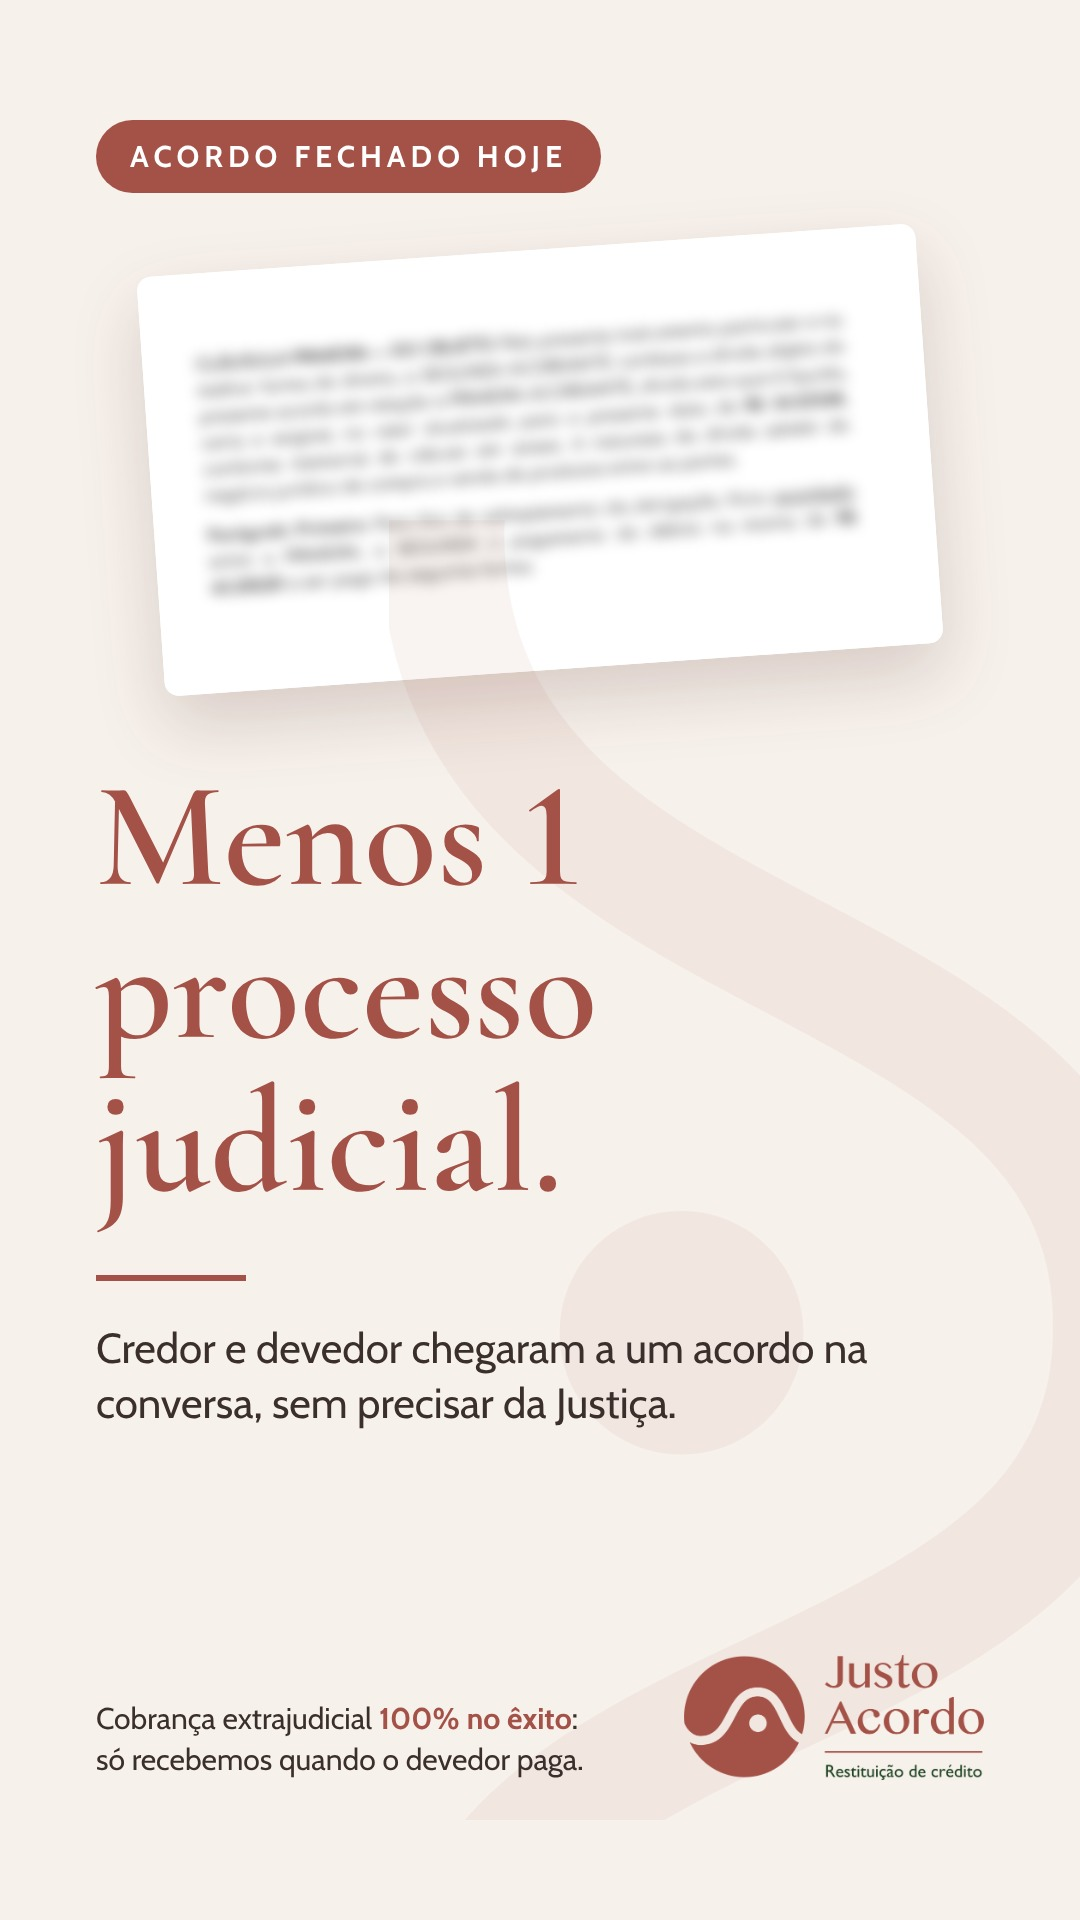
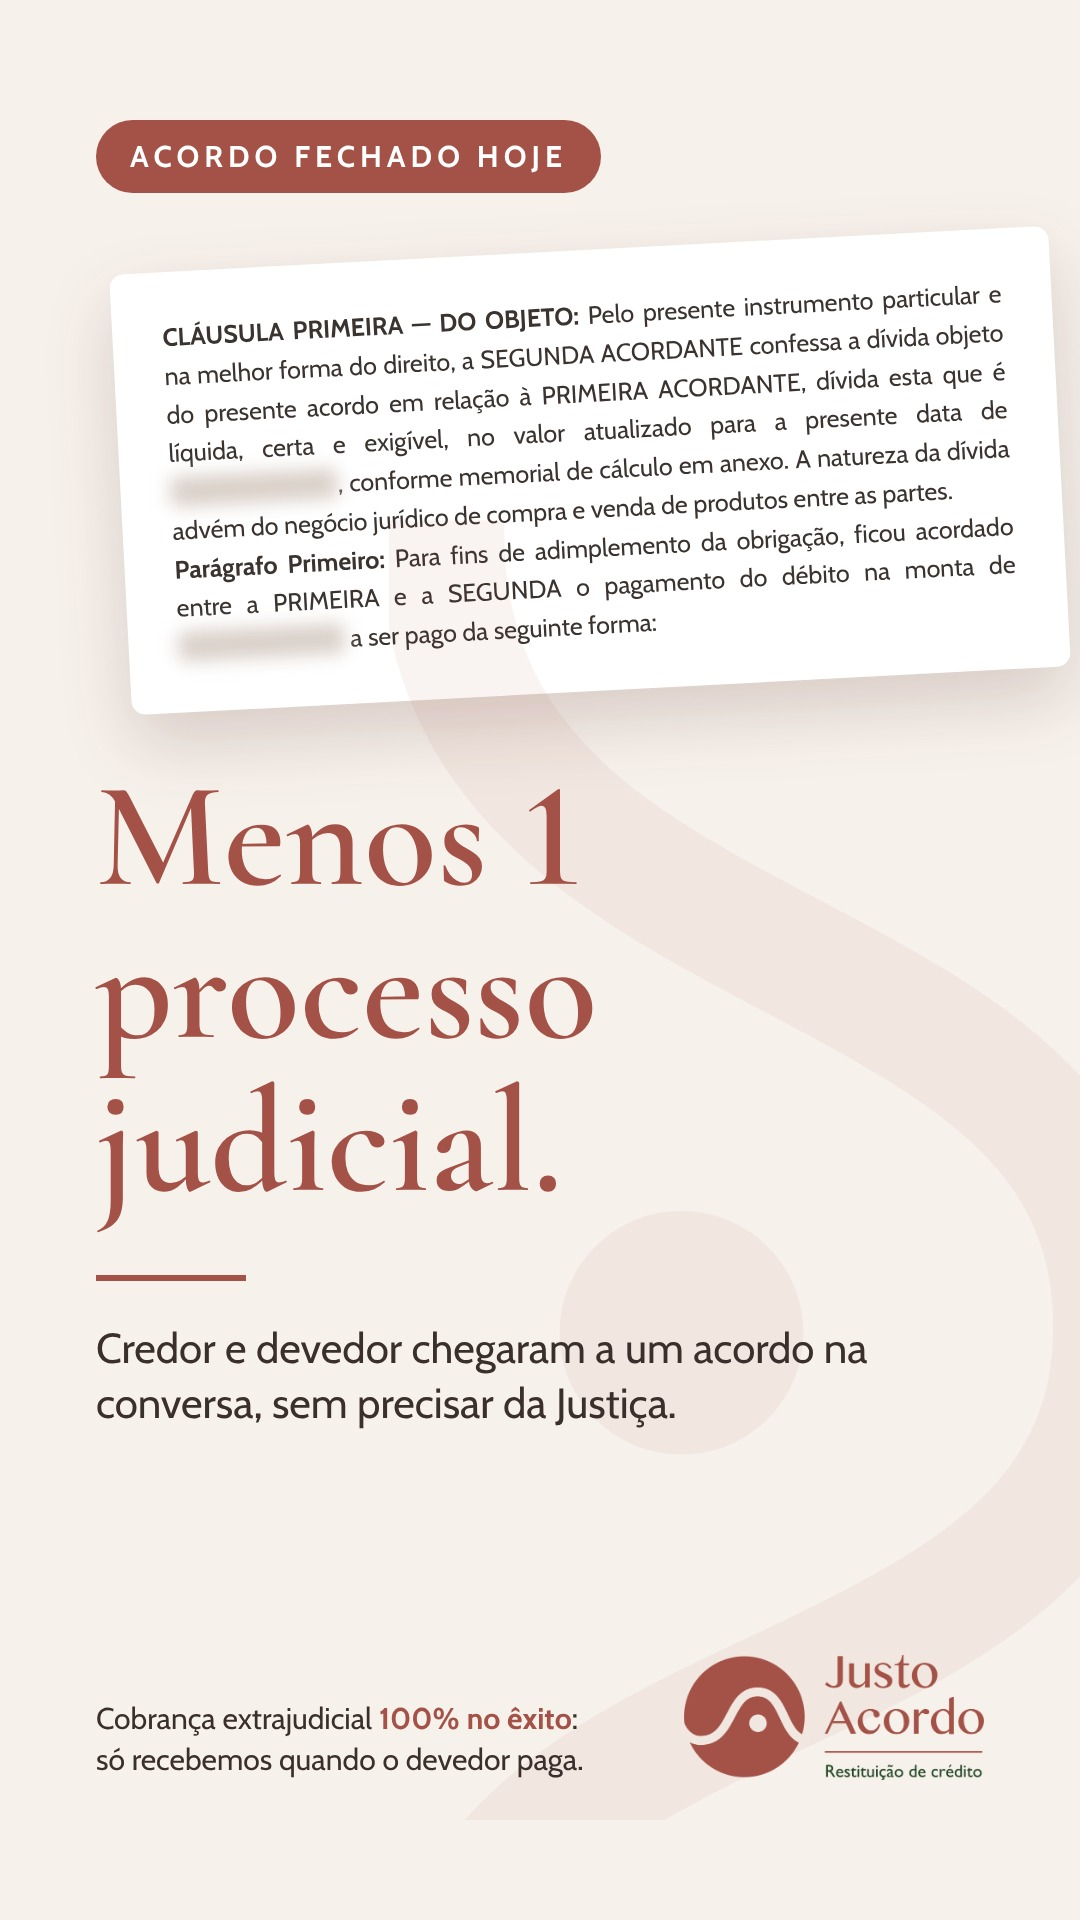
JA2026-015: termo legível com valores tarjados
Claude-Session: https://claude.ai/code/session_01U7Mveyt3nrBmvJjrVh3JXD

Changed region(s): [[0.0917, 0.125, 0.9472, 0.375]]

diff --git a/gerador/render.py b/gerador/render.py
@@ -141,10 +141,21 @@ def l_acordo(l, n, total):
 def l_acordo_frase(l, n, total):
     """Story de acordo recém-fechado (ainda sem valor recebido): termo desfocado + frase do Jailson."""
     foto = l.get("foto")
-    topo = (f'<div style="position:absolute;left:150px;top:250px;width:780px;height:420px;background:#fff;border-radius:14px;'
-            f'box-shadow:0 30px 70px rgba(80,40,30,.18);transform:rotate(-4deg);overflow:hidden">'
-            f'<div style="position:absolute;inset:-20px;background:#fff url(\'file://{os.path.abspath(foto)}\') center/88% auto no-repeat;'
-            f'filter:blur(7px)"></div></div>') if foto else ""
+    if l.get("termo"):
+        # trecho do termo LEGÍVEL, com valores/nomes já trocados por [[...]] = tarja desfocada
+        import re as _re
+        txt = e(l["termo"])
+        txt = _re.sub(r"\[\[(.+?)\]\]", lambda m: f'<span style="filter:blur(9px);background:#d9cfc8;color:transparent;border-radius:6px;white-space:nowrap">{m.group(1)}</span>', txt)
+        txt = _re.sub(r"\*\*(.+?)\*\*", r"<b>\1</b>", txt).replace("\n", "<br><br>")
+        topo = (f'<div style="position:absolute;left:120px;top:250px;width:840px;background:#fff;border-radius:14px;padding:46px 50px;'
+                f'box-shadow:0 30px 70px rgba(80,40,30,.18);transform:rotate(-3deg);font-size:25px;line-height:1.55;color:#3a3330;text-align:justify">{txt}</div>')
+    elif foto:
+        topo = (f'<div style="position:absolute;left:150px;top:250px;width:780px;height:420px;background:#fff;border-radius:14px;'
+                f'box-shadow:0 30px 70px rgba(80,40,30,.18);transform:rotate(-4deg);overflow:hidden">'
+                f'<div style="position:absolute;inset:-20px;background:#fff url(\'file://{os.path.abspath(foto)}\') center/88% auto no-repeat;'
+                f'filter:blur(7px)"></div></div>')
+    else:
+        topo = ""
     seg = f'<p style="margin:0 0 30px;font-size:34px;font-weight:600;letter-spacing:2px;color:{TERRA}">{e(l["segmento"])}</p>' if l.get("segmento") else ""
     c = f'''{topo}
     <div style="position:absolute;top:120px;left:96px;padding:18px 34px;background:{TERRA};border-radius:999px;font-size:30px;font-weight:700;letter-spacing:5px;color:#fff;z-index:2">ACORDO FECHADO HOJE</div>
